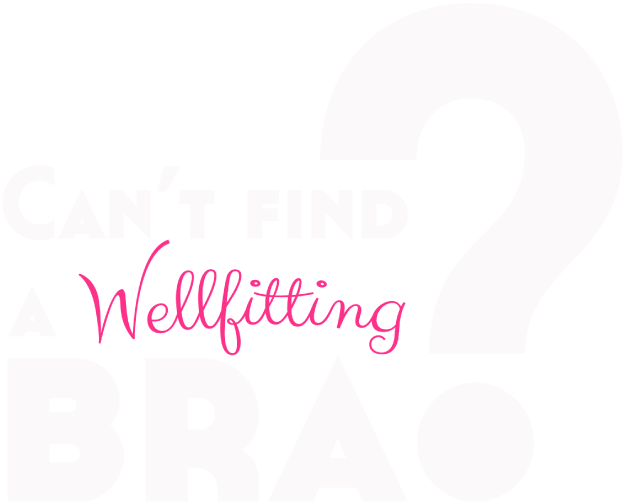
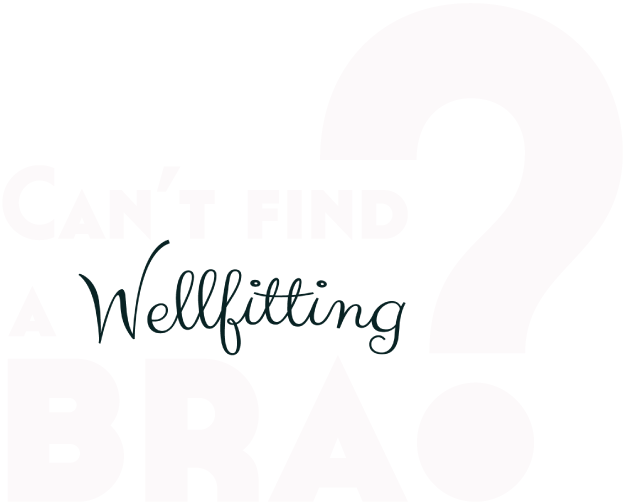
depinkizated

Changed region(s): [[0.1208, 0.508, 0.6645, 0.7171], [0.2417, 0.4781, 0.2719, 0.508]]

diff --git a/css/style.css b/css/style.css
@@ -40,7 +40,7 @@ body {
 }
 
 a {
-color: #FC328A;
+color: #30c4c9;
 text-decoration: none;
 }
 a:hover {
@@ -169,7 +169,6 @@ nav {
 	z-index: 10000;
 	font-size: 100%;
 	font-variant: small-caps;
-	font-weight: bold;
 	font-family: "Lato", "HelveticaNeue-Light", "Helvetica Neue Light", "Helvetica Neue", Helvetica, Arial, "Lucida Grande", sans-serif; 
 }
 
@@ -179,7 +178,7 @@ nav {
 
 nav a {
 	margin: 3px 0px 0 0;
-	color: #FC328A;
+	color: #092324;
 	display: inline-block;
 	text-align: center;
 	}
@@ -379,7 +378,6 @@ nav .logo img {
 	font-family: inherit;
 	font-weight: normal;
 	border: solid 1px #CA0058;
-	box-shadow: 0px 0px 2px #fff;
 	cursor: pointer;
 	padding: .2em 1.2em .35em 1.2em;
 	color: #FFE1EE;
@@ -480,8 +478,8 @@ filter: progid:DXImageTransform.Microsoft.gradient( startColorstr='#fc328a', end
 .middleWrap{
 	width: 360px;
 	text-align: center;	
-	border-top: dashed 2px rgba(9,35,36,.1);
-	border-bottom: dashed 2px rgba(9,35,36,.1);
+	border-top: solid 1px rgba(9,35,36,.1);
+	border-bottom: solid 1px rgba(9,35,36,.1);
 	float: left;
 	margin-top:60px;
 }
@@ -582,7 +580,6 @@ filter: progid:DXImageTransform.Microsoft.gradient( startColorstr='#fc328a', end
 #testimonials .face:hover img{
 	-webkit-filter: contrast(150%);
 }
-}
 
 
 
@@ -637,39 +634,18 @@ filter: progid:DXImageTransform.Microsoft.gradient( startColorstr='#fc328a', end
 	margin: 1em 0 2em 0;
 	padding: 10px;
 	border-radius: 10px;
-	border: solid 1px #CA0058;
-	box-shadow: 0px 0px 5px rgba(9,35,36,.4);
 	cursor: pointer;
 	color: #FFF3F8;
-	text-shadow: 0px 0px 1px #560025;
-	background: rgb(252,82,156); /* Old browsers */
-/* IE9 SVG, needs conditional override of 'filter' to 'none' */
[1 lines of base64/hex data omitted]
-background: -moz-linear-gradient(top,  rgba(252,82,156,1) 0%, rgba(252,50,138,1) 99%); /* FF3.6+ */
-background: -webkit-gradient(linear, left top, left bottom, color-stop(0%,rgba(252,82,156,1)), color-stop(99%,rgba(252,50,138,1))); /* Chrome,Safari4+ */
-background: -webkit-linear-gradient(top,  rgba(252,82,156,1) 0%,rgba(252,50,138,1) 99%); /* Chrome10+,Safari5.1+ */
-background: -o-linear-gradient(top,  rgba(252,82,156,1) 0%,rgba(252,50,138,1) 99%); /* Opera 11.10+ */
-background: -ms-linear-gradient(top,  rgba(252,82,156,1) 0%,rgba(252,50,138,1) 99%); /* IE10+ */
-background: linear-gradient(to bottom,  rgba(252,82,156,1) 0%,rgba(252,50,138,1) 99%); /* W3C */
-filter: progid:DXImageTransform.Microsoft.gradient( startColorstr='#fc529c', endColorstr='#fc328a',GradientType=0 ); /* IE6-8 */
+	background: #fc328a;
 }
 
-.button-huge:hover {background: rgb(252,50,138); /* Old browsers */
-/* IE9 SVG, needs conditional override of 'filter' to 'none' */
[1 lines of base64/hex data omitted]
-background: -moz-linear-gradient(top,  rgba(252,50,138,1) 0%, rgba(255,0,111,1) 99%); /* FF3.6+ */
-background: -webkit-gradient(linear, left top, left bottom, color-stop(0%,rgba(252,50,138,1)), color-stop(99%,rgba(255,0,111,1))); /* Chrome,Safari4+ */
-background: -webkit-linear-gradient(top,  rgba(252,50,138,1) 0%,rgba(255,0,111,1) 99%); /* Chrome10+,Safari5.1+ */
-background: -o-linear-gradient(top,  rgba(252,50,138,1) 0%,rgba(255,0,111,1) 99%); /* Opera 11.10+ */
-background: -ms-linear-gradient(top,  rgba(252,50,138,1) 0%,rgba(255,0,111,1) 99%); /* IE10+ */
-background: linear-gradient(to bottom,  rgba(252,50,138,1) 0%,rgba(255,0,111,1) 99%); /* W3C */
-filter: progid:DXImageTransform.Microsoft.gradient( startColorstr='#fc328a', endColorstr='#ff006f',GradientType=0 ); /* IE6-8 */
+.button-huge:hover {background: rgb(252,50,138);
 }
 
 .button-huge div {
 	padding: .2em 1em 0.2em;
-	border: dashed 2px rgba(202,0,88,.5);
-	border-radius: 10px;
+	border: dashed 2px rgba(252, 249, 250, .6);
+	border-radius: 5%;
 }
 
 .button-huge small {
@@ -682,7 +658,14 @@ filter: progid:DXImageTransform.Microsoft.gradient( startColorstr='#fc328a', end
 	font-style: normal;
 	font-weight: normal;
 }
-
+#preorder img {
+	margin: 30px 0 50px 0;
+	background: none;
+}
+#preorder img:hover {
+	-webkit-filter: brightness(90%) contrast(150%);
+	background: none;
+}
 .icon {
 	display: block;
 	height: 75px;

diff --git a/table.html b/table.html
@@ -542,15 +542,8 @@ $(document).ready(function(){
 			<header>
 				<h2>Accepting orders only until August 30!</h2>
 				<h1>Order Your Bra Today!</h1>
-				<button class="button-huge">
-					<div>
-						 Buy Now
-						<br>
-						<small>&hearts; 100% Satisfaction Guaranteed &hearts;</small>
-					</div>
-				</button>
-				
-			</header>
+				<img href="" src="/img/css/button2.png">
+				</header>
 			<div class="inner">
 				<div class="grid2-6">
 					<span class="icon shipping"></span>
